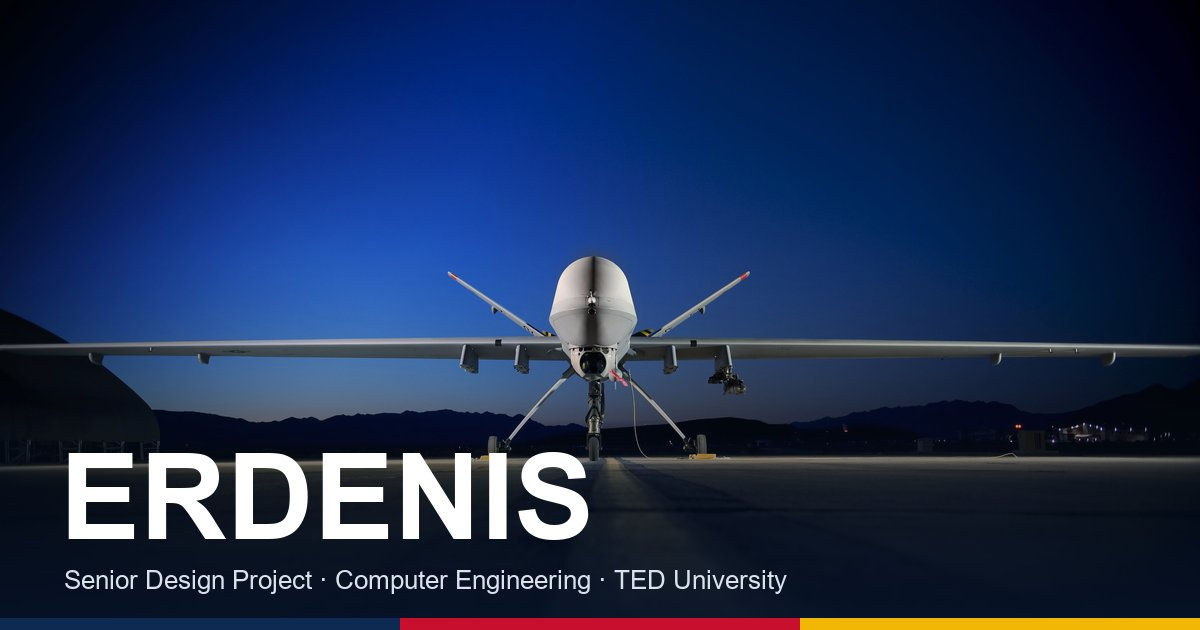
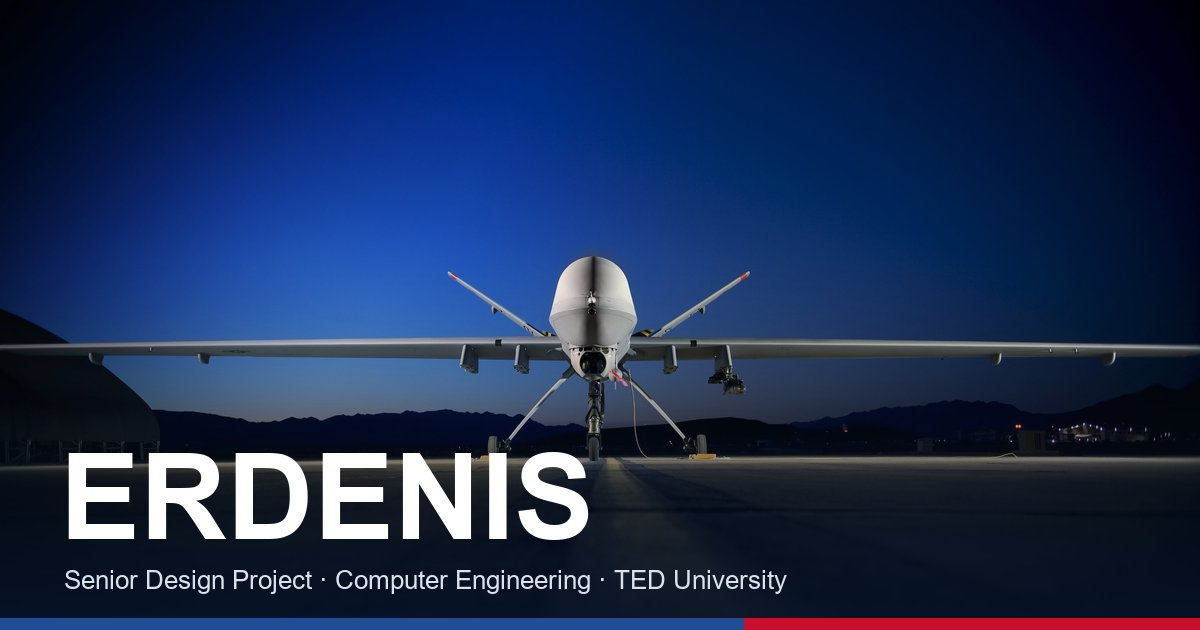
Dim background photo with black veil; replace yellow accents with navy and red

Changed region(s): [[0.0, 0.9651, 1.0, 1.0]]

diff --git a/css/style.css b/css/style.css
@@ -6,7 +6,7 @@
   --paper: #F3F0E8;
   --ink: #0B1220;
   --signal-red: #C8102E;
-  --caution-yellow: #F2B705;
+  --red-soft: #FF6B7D; /* red tint for small text on navy (AA contrast) */
   --gray-300: #C5CCD8;
   --gray-400: #AEB9CC;
   --gray-600: #6B7890;
@@ -35,7 +35,7 @@ a { color: inherit; }
 h1, h2, h3, p, ul, ol { margin: 0; padding: 0; }
 ul, ol { list-style: none; }
 
-:focus-visible { outline: 2px solid var(--caution-yellow); outline-offset: 3px; }
+:focus-visible { outline: 2px solid var(--paper); outline-offset: 3px; }
 .skip { position: absolute; left: -999px; top: 0; z-index: 100; background: var(--paper); color: var(--ink); padding: .6rem 1rem; }
 .skip:focus { left: 0; }
 
@@ -48,7 +48,8 @@ ul, ol { list-style: none; }
 
 /* Site-wide background photo */
 .site-bg { position: fixed; inset: 0; z-index: -1; background: var(--navy-900); }
-.site-bg img { width: 100%; height: 100%; object-fit: cover; object-position: 50% 45%; opacity: .2; }
+.site-bg img { width: 100%; height: 100%; object-fit: cover; object-position: 50% 45%; opacity: .13; }
+.site-bg::after { content: ""; position: absolute; inset: 0; background: rgba(0, 0, 0, .45); }
 
 /* Header */
 .site-header {
@@ -64,7 +65,7 @@ ul, ol { list-style: none; }
   display: inline-flex; align-items: center; gap: .55rem; text-decoration: none; position: relative; z-index: 60;
   font: 800 1.15rem/1 var(--font-head); font-stretch: 118%; letter-spacing: .02em;
 }
-.brand-mark { color: var(--caution-yellow); }
+.brand-mark { color: var(--signal-red); }
 .nav { display: flex; gap: clamp(1.25rem, 3vw, 2.5rem); }
 .nav a {
   position: relative; text-decoration: none; padding: .4rem 0;
@@ -108,7 +109,7 @@ ul, ol { list-style: none; }
 }
 .pill:hover { background: #A60D26; }
 
-.stripe { position: absolute; left: 0; right: 0; bottom: 0; height: 6px; z-index: 3; background: linear-gradient(90deg, var(--navy-500) 0 40%, var(--signal-red) 40% 72%, var(--caution-yellow) 72% 100%); }
+.stripe { position: absolute; left: 0; right: 0; bottom: 0; height: 6px; z-index: 3; background: linear-gradient(90deg, var(--navy-500) 0 62%, var(--signal-red) 62% 100%); }
 
 /* Crosshair marks (technical-drawing detail) */
 .xh { position: absolute; width: 18px; height: 18px; color: rgba(243, 240, 232, .55); pointer-events: none; z-index: 2;
@@ -126,7 +127,7 @@ ul, ol { list-style: none; }
 .wrap { width: 100%; max-width: var(--maxw); margin: 0 auto; padding: 0 var(--gutter); position: relative; }
 .sec-head { display: flex; align-items: center; gap: 1rem; margin-bottom: clamp(2.5rem, 6vw, 5rem); }
 .sec-head .label { display: inline-flex; align-items: center; gap: .6rem; color: var(--paper); white-space: nowrap; }
-.sec-head .label::before { content: ""; width: 28px; height: 3px; background: var(--caution-yellow); }
+.sec-head .label::before { content: ""; width: 28px; height: 3px; background: var(--signal-red); }
 .sec-head::after { content: ""; flex: 1; height: 1px; background: var(--line); }
 
 .contours::before { content: ""; position: absolute; inset: 0; background: url("../assets/contours.svg") right center / cover no-repeat; opacity: .07; pointer-events: none; }
@@ -139,12 +140,12 @@ ul, ol { list-style: none; }
 .goals { counter-reset: g; }
 .goals li { display: grid; grid-template-columns: 4.5rem 1fr; align-items: baseline; gap: 1rem; padding: clamp(1.2rem, 2.4vw, 1.9rem) 0; border-top: 1px solid var(--line); }
 .goals li:last-child { border-bottom: 1px solid var(--line); }
-.goals li::before { counter-increment: g; content: counter(g, decimal-leading-zero); font: 500 .85rem/1 var(--font-mono); letter-spacing: .12em; color: var(--caution-yellow); }
+.goals li::before { counter-increment: g; content: counter(g, decimal-leading-zero); font: 500 .85rem/1 var(--font-mono); letter-spacing: .12em; color: var(--red-soft); }
 .goals li span { font: 500 clamp(1.15rem, 2.1vw, 1.85rem)/1.3 var(--font-head); letter-spacing: -.005em; max-width: 48rem; }
 @media (min-width: 900px) { .goals li { grid-template-columns: 25% 1fr; } }
 
 /* Team */
-.supervisor { border-top: 3px solid var(--caution-yellow); padding-top: 1.5rem; max-width: 56rem; }
+.supervisor { border-top: 3px solid var(--signal-red); padding-top: 1.5rem; max-width: 56rem; }
 .supervisor .name { margin-top: .9rem; font: 700 clamp(2.1rem, 6vw, 5rem)/1 var(--font-head); font-stretch: 112%; letter-spacing: -.025em; color: #fff; }
 .jury { margin-top: clamp(2rem, 4vw, 3rem); display: flex; flex-wrap: wrap; gap: .75rem 3rem; align-items: baseline; padding-bottom: clamp(2.5rem, 5vw, 4rem); border-bottom: 1px solid var(--line); }
 .jury li { font: 500 1.25rem/1.3 var(--font-head); }
@@ -163,7 +164,7 @@ ul, ol { list-style: none; }
 /* Reports */
 .reports li { display: grid; grid-template-columns: 3rem minmax(0, 1fr) 14rem auto; gap: 1rem 1.5rem; align-items: center; padding: 1.4rem 0; border-top: 1px solid var(--line); }
 .reports li:last-child { border-bottom: 1px solid var(--line); }
-.r-idx { font: 500 .8rem/1 var(--font-mono); color: var(--caution-yellow); letter-spacing: .1em; }
+.r-idx { font: 500 .8rem/1 var(--font-mono); color: var(--red-soft); letter-spacing: .1em; }
 .r-title { font: 600 clamp(1.2rem, 2vw, 1.6rem)/1.25 var(--font-head); color: #fff; }
 .r-meta { font: 500 .72rem/1.4 var(--font-mono); letter-spacing: .14em; text-transform: uppercase; color: var(--gray-400); }
 .r-actions { display: flex; gap: .6rem; justify-content: flex-end; }
